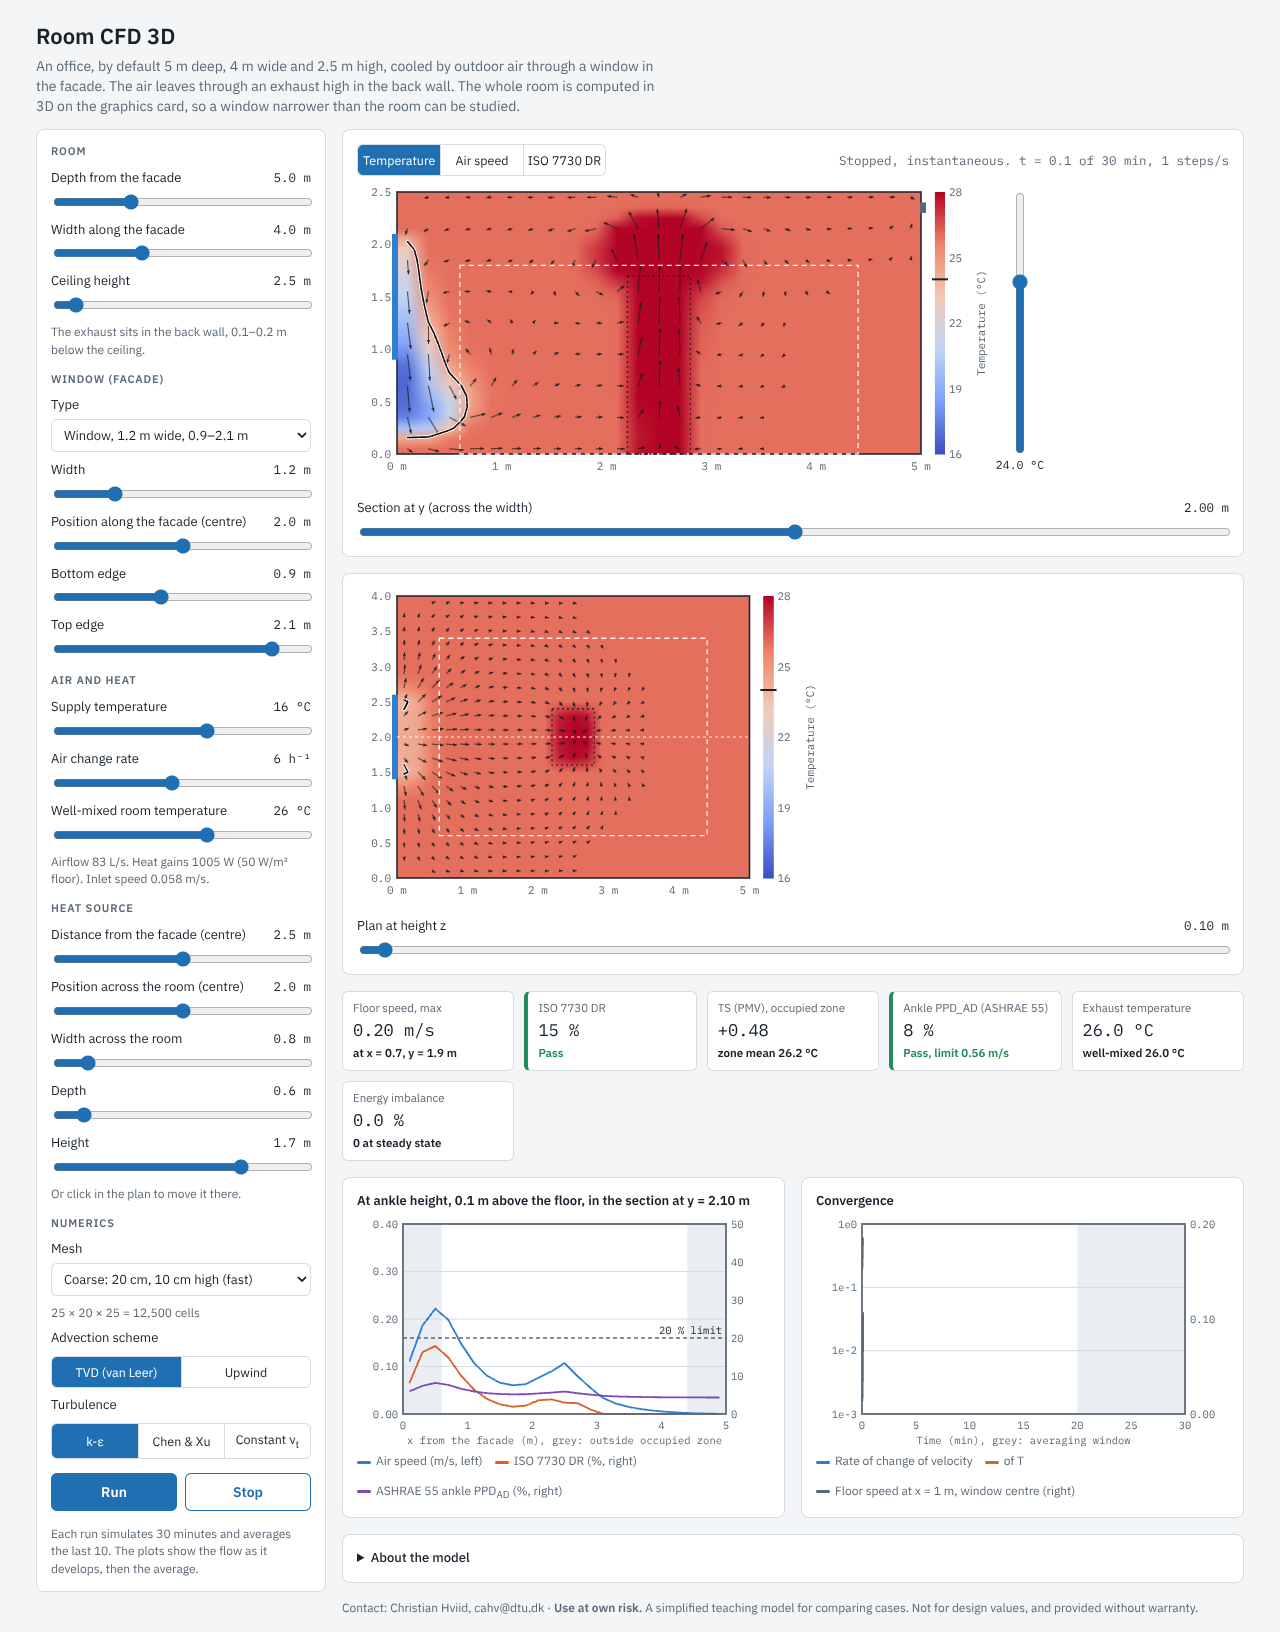
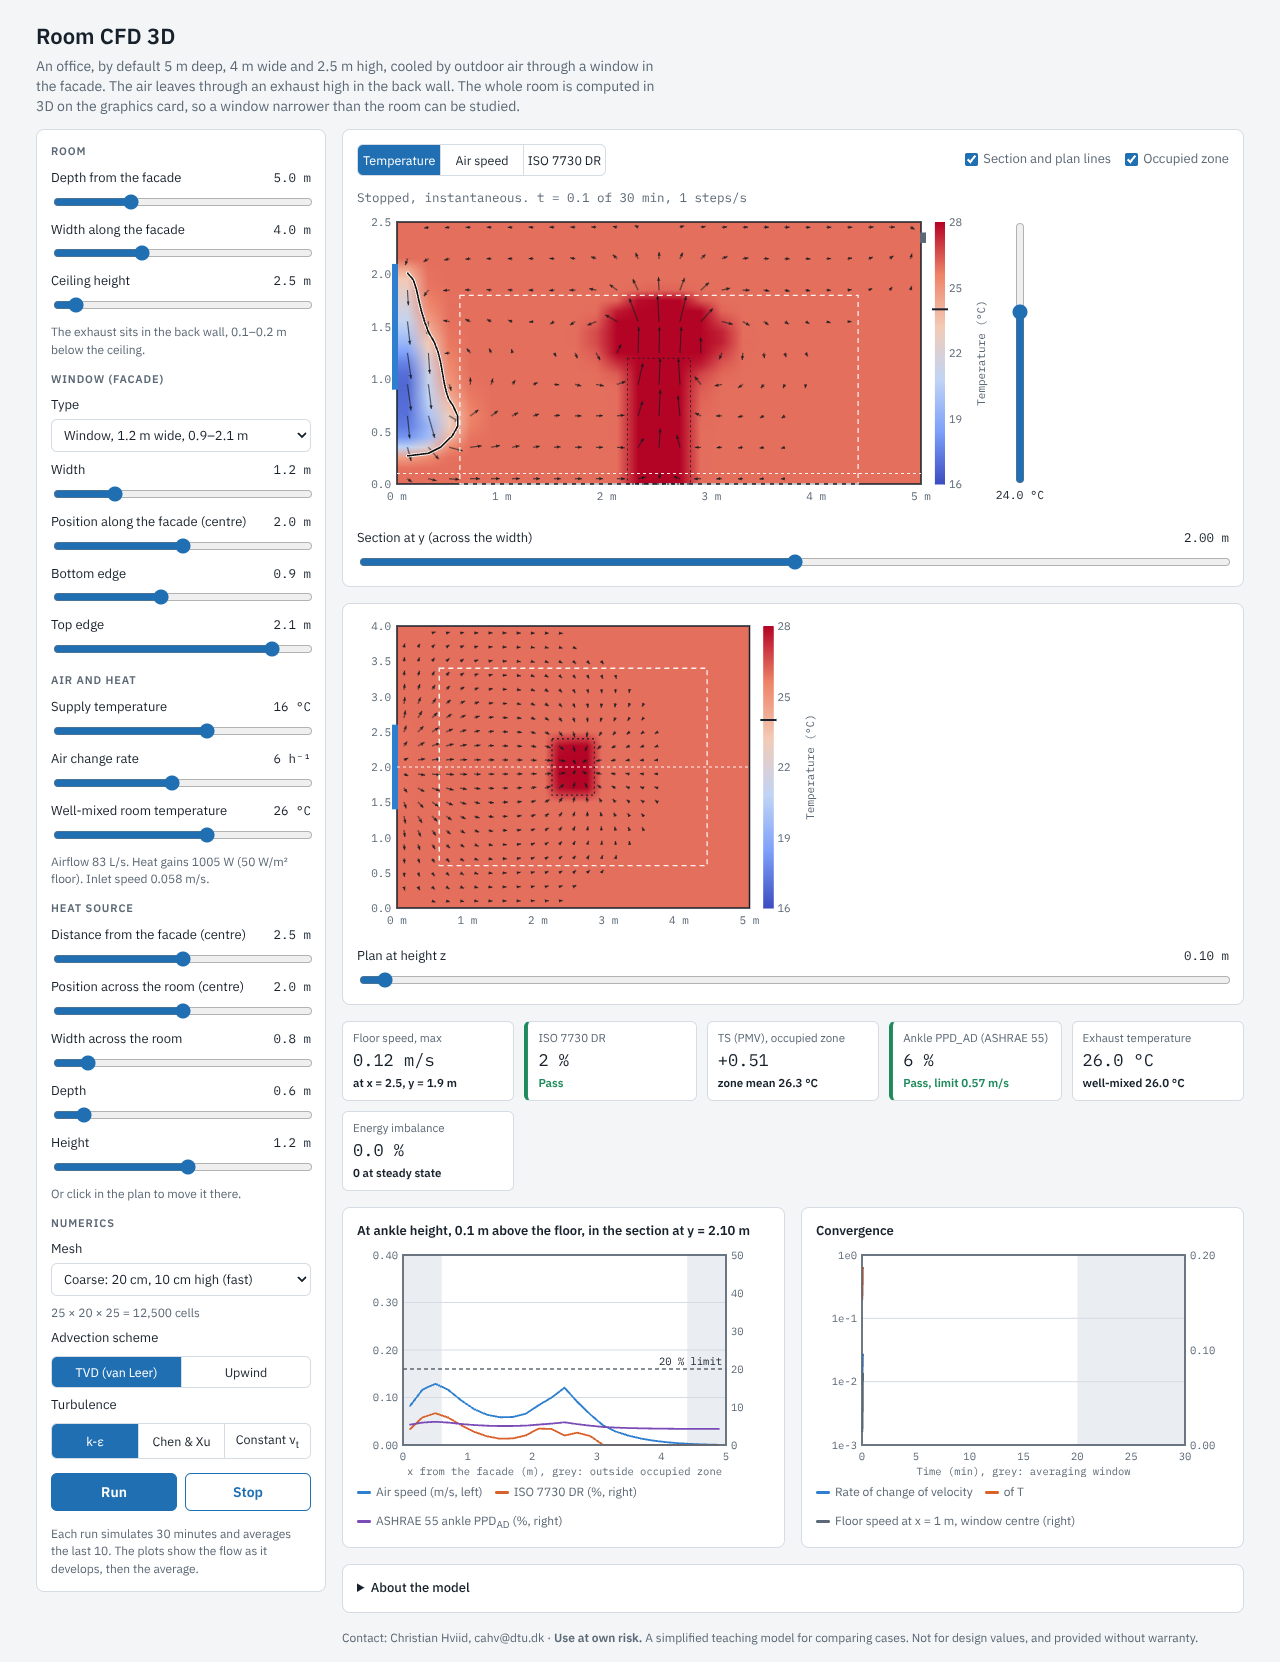
3D room CFD app: default heat source height 1.2 m
Claude-Session: https://claude.ai/code/session_01UrtxaCZXiysJhkrdrnt1hM

diff --git a/chapters/code/room-cfd-3d.html b/chapters/code/room-cfd-3d.html
@@ -123,7 +123,7 @@ details { color: var(--muted); font-size: 13px; } details p { max-width: 80ch; }
       <label for="hd"><span class="row"><span>Depth</span><span class="val" id="hdV"></span></span>
         <input id="hd" type="range" min="0.4" max="2" step="0.2" value="0.6"></label>
       <label for="hh"><span class="row"><span>Height</span><span class="val" id="hhV"></span></span>
-        <input id="hh" type="range" min="0" max="2.4" step="0.1" value="1.7"></label>
+        <input id="hh" type="range" min="0" max="2.4" step="0.1" value="1.2"></label>
       <p class="note">Or click in the plan to move it there.</p>
     </div>
     <div class="group">
@@ -206,7 +206,7 @@ details { color: var(--muted); font-size: 13px; } details p { max-width: 80ch; }
     <details class="panel">
       <summary>About the model</summary>
       <p>The solver is room_cfd_3d.py from the course, ported to WebGPU compute shaders: the incompressible Navier–Stokes equations with Boussinesq buoyancy and an energy equation, on a staggered grid, marching in time with a pressure projection. The pressure equation is solved by conjugate gradients with a multigrid preconditioner. Turbulence: standard k-ε with wall functions (default), Chen &amp; Xu (1998), or a constant ν<sub>t</sub> of 0.002 m²/s. The graphics card computes in single precision; on a test case it agrees with the Python version to about 1 part in a million.</p>
-      <p>The heat gains sit in a box from the floor up, by default 0.6 m deep, 0.8 m wide and 1.7 m high in the middle of the room; move and resize it under Heat source or click in the plan. The occupied zone starts 0.6 m from the facade, back and side walls. The readouts are at ankle height (0.1 m). ISO 7730 DR uses Tu = 40 %; the ASHRAE 55 ankle draught model uses the PMV of the occupied zone at 1.2 met, 0.5 clo, 50 % RH and t<sub>r</sub> = t<sub>a</sub>. Both limits are 20 %.</p>
+      <p>The heat gains sit in a box from the floor up, by default 0.6 m deep, 0.8 m wide and 1.2 m high in the middle of the room; move and resize it under Heat source or click in the plan. The occupied zone starts 0.6 m from the facade, back and side walls. The readouts are at ankle height (0.1 m). ISO 7730 DR uses Tu = 40 %; the ASHRAE 55 ankle draught model uses the PMV of the occupied zone at 1.2 met, 0.5 clo, 50 % RH and t<sub>r</sub> = t<sub>a</sub>. Both limits are 20 %.</p>
     </details>
     <p class="meta">Contact: Christian Hviid, cahv@dtu.dk · <strong>Use at own risk.</strong> A simplified teaching model for comparing cases. Not for design values, and provided without warranty.</p>
   </section>
@@ -1051,7 +1051,7 @@ const $ = (id) => document.getElementById(id);
 const css = (name) => getComputedStyle(document.documentElement).getPropertyValue(name).trim();
 const fmt = (x, d = 2) => Number.isFinite(x) ? x.toFixed(d) : "–";
 let L = 5, W = 4, H = 2.5;
-const state = { preset: "window", wy: 2, width: 1.2, lo: 0.9, hi: 2.1, tin: 16, ach: 6, troom: 26, L: 5, W: 4, H: 2.5, hx: 2.5, hy: 2, hw: 0.8, hd: 0.6, hh: 1.7, heatCentred: true, showCuts: true, showOZ: true, iso: { T: 24, speed: 0.15, DR: 20 }, mesh: [0.1, 0.1, 0.1], turb: "k-epsilon", adv: "tvd", field: "T", ycut: 2, zcut: 0.1 };
+const state = { preset: "window", wy: 2, width: 1.2, lo: 0.9, hi: 2.1, tin: 16, ach: 6, troom: 26, L: 5, W: 4, H: 2.5, hx: 2.5, hy: 2, hw: 0.8, hd: 0.6, hh: 1.2, heatCentred: true, showCuts: true, showOZ: true, iso: { T: 24, speed: 0.15, DR: 20 }, mesh: [0.1, 0.1, 0.1], turb: "k-epsilon", adv: "tvd", field: "T", ycut: 2, zcut: 0.1 };
 let device = null, sim = null, geo = null, f = null, runId = 0, stopReq = false, done = false, lastProg = null, hist = null, prev = null;
 
 function syncLabels() {

diff --git a/chapters/code/room-cfd-3d.template.html b/chapters/code/room-cfd-3d.template.html
@@ -123,7 +123,7 @@ details { color: var(--muted); font-size: 13px; } details p { max-width: 80ch; }
       <label for="hd"><span class="row"><span>Depth</span><span class="val" id="hdV"></span></span>
         <input id="hd" type="range" min="0.4" max="2" step="0.2" value="0.6"></label>
       <label for="hh"><span class="row"><span>Height</span><span class="val" id="hhV"></span></span>
-        <input id="hh" type="range" min="0" max="2.4" step="0.1" value="1.7"></label>
+        <input id="hh" type="range" min="0" max="2.4" step="0.1" value="1.2"></label>
       <p class="note">Or click in the plan to move it there.</p>
     </div>
     <div class="group">
@@ -206,7 +206,7 @@ details { color: var(--muted); font-size: 13px; } details p { max-width: 80ch; }
     <details class="panel">
       <summary>About the model</summary>
       <p>The solver is room_cfd_3d.py from the course, ported to WebGPU compute shaders: the incompressible Navier–Stokes equations with Boussinesq buoyancy and an energy equation, on a staggered grid, marching in time with a pressure projection. The pressure equation is solved by conjugate gradients with a multigrid preconditioner. Turbulence: standard k-ε with wall functions (default), Chen &amp; Xu (1998), or a constant ν<sub>t</sub> of 0.002 m²/s. The graphics card computes in single precision; on a test case it agrees with the Python version to about 1 part in a million.</p>
-      <p>The heat gains sit in a box from the floor up, by default 0.6 m deep, 0.8 m wide and 1.7 m high in the middle of the room; move and resize it under Heat source or click in the plan. The occupied zone starts 0.6 m from the facade, back and side walls. The readouts are at ankle height (0.1 m). ISO 7730 DR uses Tu = 40 %; the ASHRAE 55 ankle draught model uses the PMV of the occupied zone at 1.2 met, 0.5 clo, 50 % RH and t<sub>r</sub> = t<sub>a</sub>. Both limits are 20 %.</p>
+      <p>The heat gains sit in a box from the floor up, by default 0.6 m deep, 0.8 m wide and 1.2 m high in the middle of the room; move and resize it under Heat source or click in the plan. The occupied zone starts 0.6 m from the facade, back and side walls. The readouts are at ankle height (0.1 m). ISO 7730 DR uses Tu = 40 %; the ASHRAE 55 ankle draught model uses the PMV of the occupied zone at 1.2 met, 0.5 clo, 50 % RH and t<sub>r</sub> = t<sub>a</sub>. Both limits are 20 %.</p>
     </details>
     <p class="meta">Contact: Christian Hviid, cahv@dtu.dk · <strong>Use at own risk.</strong> A simplified teaching model for comparing cases. Not for design values, and provided without warranty.</p>
   </section>
@@ -243,7 +243,7 @@ const $ = (id) => document.getElementById(id);
 const css = (name) => getComputedStyle(document.documentElement).getPropertyValue(name).trim();
 const fmt = (x, d = 2) => Number.isFinite(x) ? x.toFixed(d) : "–";
 let L = 5, W = 4, H = 2.5;
-const state = { preset: "window", wy: 2, width: 1.2, lo: 0.9, hi: 2.1, tin: 16, ach: 6, troom: 26, L: 5, W: 4, H: 2.5, hx: 2.5, hy: 2, hw: 0.8, hd: 0.6, hh: 1.7, heatCentred: true, showCuts: true, showOZ: true, iso: { T: 24, speed: 0.15, DR: 20 }, mesh: [0.1, 0.1, 0.1], turb: "k-epsilon", adv: "tvd", field: "T", ycut: 2, zcut: 0.1 };
+const state = { preset: "window", wy: 2, width: 1.2, lo: 0.9, hi: 2.1, tin: 16, ach: 6, troom: 26, L: 5, W: 4, H: 2.5, hx: 2.5, hy: 2, hw: 0.8, hd: 0.6, hh: 1.2, heatCentred: true, showCuts: true, showOZ: true, iso: { T: 24, speed: 0.15, DR: 20 }, mesh: [0.1, 0.1, 0.1], turb: "k-epsilon", adv: "tvd", field: "T", ycut: 2, zcut: 0.1 };
 let device = null, sim = null, geo = null, f = null, runId = 0, stopReq = false, done = false, lastProg = null, hist = null, prev = null;
 
 function syncLabels() {

diff --git a/chapters/appendix-room-cfd-3d.md b/chapters/appendix-room-cfd-3d.md
@@ -30,7 +30,7 @@ The app is a single HTML file, {download}`room-cfd-3d.html <code/room-cfd-3d.htm
 
 ## The room and the cases
 
-The room is by default 5 m deep (x), 4 m wide (y) and 2.5 m high (z), with the facade at x = 0. In the app the depth, width and height can be changed; the mesh is then set by the cell size (20, 10 or 5 cm), and the exhaust stays 0.1–0.2 m below the ceiling. The supply opening sits in the facade or the back wall and can have any width; it is centred unless `y0` and `y1` are given. The app offers the same opening types as the 2D app (a window, a balcony door, a top hatch and a low slot, plus a window across the full width), and the opening can be slid along the facade. The exhaust is in the back wall or the ceiling. The heat gains are a box standing on the floor. In the app it is by default 0.6 m deep, 0.8 m wide and 1.7 m high in the middle of the room, and it can be moved and resized, or placed by clicking in the plan; the Python examples use a box 0.4 m deep and 1.2 m high across the full width at x = 2.3–2.7 m. With a height of 0 it becomes a heated patch of floor (`FloorFlux`), which heats the air through the floor surface, as a sun patch does. The power is sized as in the 2D model so that the well-mixed room temperature is the same in every case:
+The room is by default 5 m deep (x), 4 m wide (y) and 2.5 m high (z), with the facade at x = 0. In the app the depth, width and height can be changed; the mesh is then set by the cell size (20, 10 or 5 cm), and the exhaust stays 0.1–0.2 m below the ceiling. The supply opening sits in the facade or the back wall and can have any width; it is centred unless `y0` and `y1` are given. The app offers the same opening types as the 2D app (a window, a balcony door, a top hatch and a low slot, plus a window across the full width), and the opening can be slid along the facade. The exhaust is in the back wall or the ceiling. The heat gains are a box standing on the floor. In the app it is by default 0.6 m deep, 0.8 m wide and 1.2 m high in the middle of the room, and it can be moved and resized, or placed by clicking in the plan; the Python examples use a box 0.4 m deep and 1.2 m high across the full width at x = 2.3–2.7 m. With a height of 0 it becomes a heated patch of floor (`FloorFlux`), which heats the air through the floor surface, as a sun patch does. The power is sized as in the 2D model so that the well-mixed room temperature is the same in every case:
 
 $$
 \Phi = \rho \, c_p \, q_v \, (T_{room} - T_{supply})
